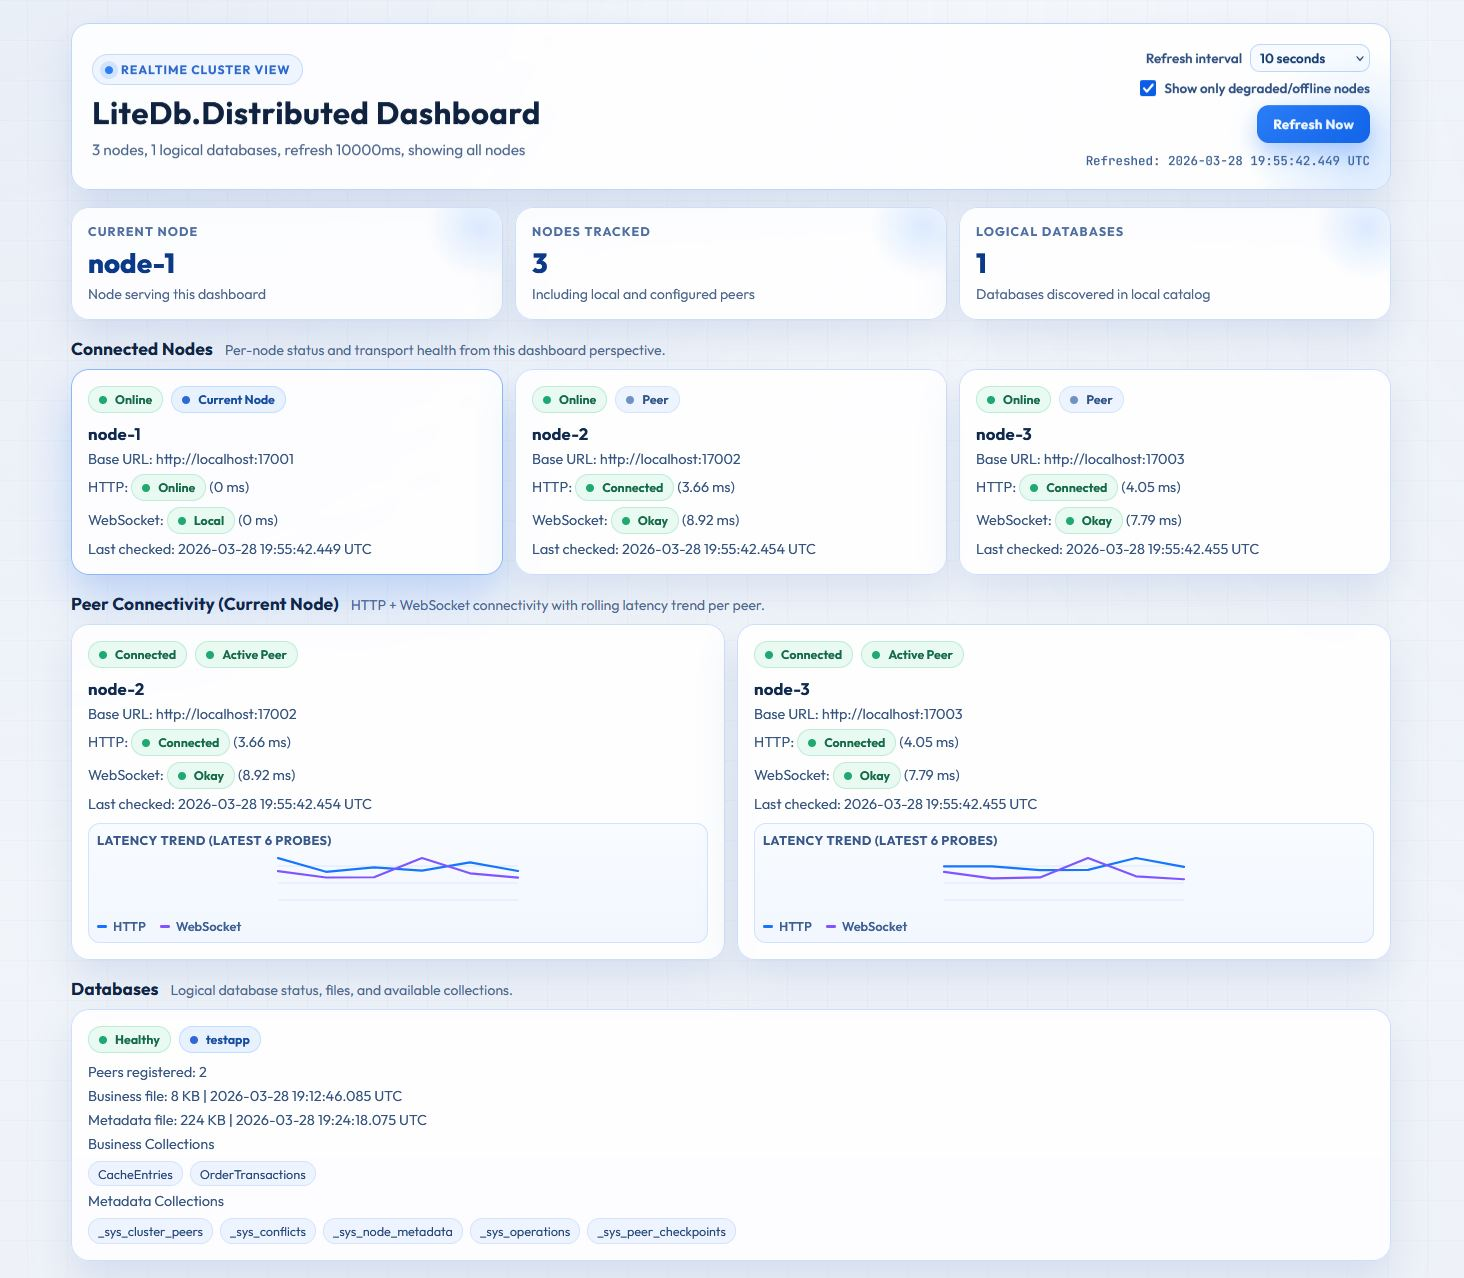
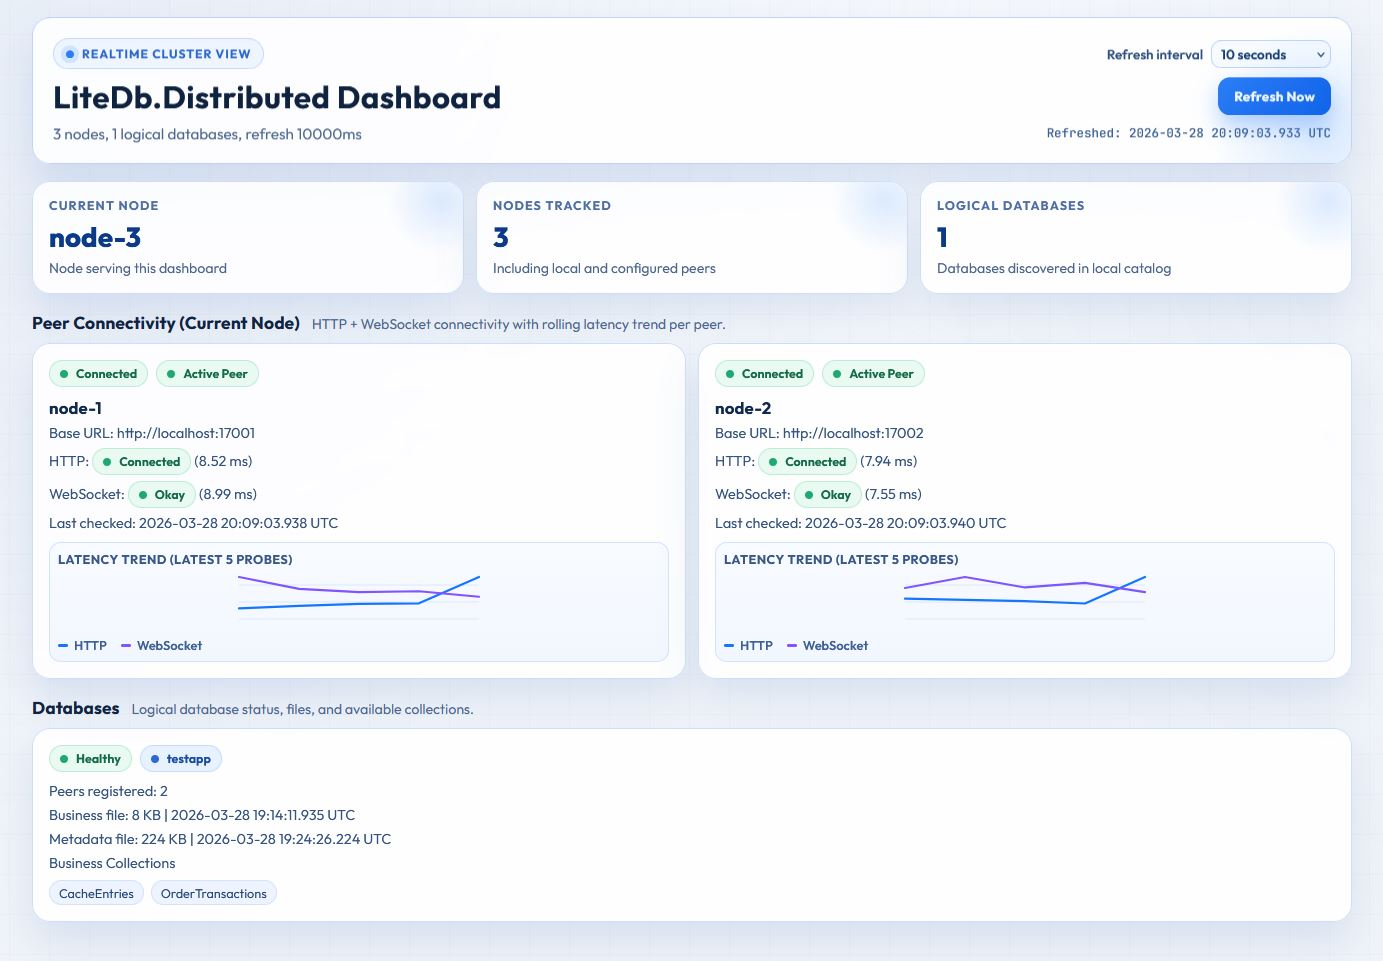
ui revamp

Changed region(s): [[0.0311, 0.0312, 0.9638, 0.999], [0.9328, 0.3746, 0.9638, 0.4058], [0.4975, 0.6868, 0.5286, 0.718]]

diff --git a/LiteDb.Distributed.Server/wwwroot/index.html b/LiteDb.Distributed.Server/wwwroot/index.html
@@ -172,25 +172,6 @@
       min-width: 120px;
     }
 
-    .toggle {
-      display: inline-flex;
-      align-items: center;
-      gap: 8px;
-      color: #2f4f80;
-      font-size: 0.84rem;
-      font-weight: 600;
-      user-select: none;
-      cursor: pointer;
-    }
-
-    .toggle input {
-      width: 16px;
-      height: 16px;
-      margin: 0;
-      accent-color: var(--brand-strong);
-      cursor: pointer;
-    }
-
     .btn {
       appearance: none;
       border: none;
@@ -572,10 +553,6 @@
               <option value="30000">30 seconds</option>
             </select>
           </label>
-          <label class="toggle" for="filterIssuesToggle">
-            <input id="filterIssuesToggle" type="checkbox" />
-            Show only degraded/offline nodes
-          </label>
         </div>
         <button id="refreshBtn" class="btn" type="button">Refresh Now</button>
         <p id="metaLine" class="meta">No data yet.</p>
@@ -603,14 +580,6 @@
 
     <section class="section">
       <div class="section-head">
-        <h2>Connected Nodes</h2>
-        <p>Per-node status and transport health from this dashboard perspective.</p>
-      </div>
-      <div id="nodesGrid" class="grid"></div>
-    </section>
-
-    <section class="section">
-      <div class="section-head">
         <h2>Peer Connectivity (Current Node)</h2>
         <p>HTTP + WebSocket connectivity with rolling latency trend per peer.</p>
       </div>
@@ -627,7 +596,6 @@
   </main>
 
   <script>
-    const nodesGrid = document.getElementById("nodesGrid");
     const peerConnectivityGrid = document.getElementById("peerConnectivityGrid");
     const databasesGrid = document.getElementById("databasesGrid");
     const summary = document.getElementById("summary");
@@ -635,15 +603,12 @@
     const errorLine = document.getElementById("errorLine");
     const refreshBtn = document.getElementById("refreshBtn");
     const refreshIntervalSelect = document.getElementById("refreshIntervalSelect");
-    const filterIssuesToggle = document.getElementById("filterIssuesToggle");
     const kpiCurrentNode = document.getElementById("kpiCurrentNode");
     const kpiNodeCount = document.getElementById("kpiNodeCount");
     const kpiDbCount = document.getElementById("kpiDbCount");
 
     const maxPeerLatencySamples = 32;
     const peerLatencyHistory = new Map();
-    let latestDashboardData = null;
-    let showOnlyIssueNodes = false;
     let refreshTimer = null;
 
     async function refreshDashboard() {
@@ -658,7 +623,6 @@
         }
 
         const data = await response.json();
-        latestDashboardData = data;
         capturePeerLatencySamples(data.PeerConnections || []);
         renderDashboard(data);
       } catch (error) {
@@ -675,55 +639,15 @@
       const peerConnections = data.PeerConnections || [];
       const timestamp = toUtcText(data.TimestampUtc);
       const intervalMs = readRefreshIntervalMs();
-      const filterText = showOnlyIssueNodes ? "issue-only node filter enabled" : "showing all nodes";
-
-      summary.textContent = `${nodes.length} nodes, ${databases.length} logical databases, refresh ${intervalMs}ms, ${filterText}`;
+      summary.textContent = `${nodes.length} nodes, ${databases.length} logical databases, refresh ${intervalMs}ms`;
       metaLine.textContent = `Refreshed: ${timestamp}`;
 
       kpiCurrentNode.textContent = data.NodeId || "-";
       kpiNodeCount.textContent = String(nodes.length);
       kpiDbCount.textContent = String(databases.length);
 
-      renderNodes(nodes, data.NodeId);
       renderPeerConnections(peerConnections);
       renderDatabases(databases);
-    }
-
-    function renderNodes(nodes, currentNodeId) {
-      nodesGrid.innerHTML = "";
-      const visibleNodes = showOnlyIssueNodes ? nodes.filter(node => isIssueNode(node)) : nodes;
-
-      if (visibleNodes.length === 0) {
-        const note = showOnlyIssueNodes ? "No degraded or offline nodes right now." : "No nodes discovered yet.";
-        nodesGrid.innerHTML = `<article class="panel reveal"><p class="note">${escapeHtml(note)}</p></article>`;
-        return;
-      }
-
-      for (const node of visibleNodes) {
-        const statusText = node.Status || (node.IsOnline ? "Online" : "Offline");
-        const checked = toUtcText(node.LastCheckedUtc);
-        const currentBadge = node.NodeId === currentNodeId ? `<span class="pill info">Current Node</span>` : `<span class="pill neutral">Peer</span>`;
-        const httpStatus = node.HttpStatus || (node.IsOnline ? "Connected" : "Offline");
-        const wsStatus = node.WebSocketStatus || "Unknown";
-        const currentClass = node.NodeId === currentNodeId ? " current-node" : "";
-        const error = node.Error ? `<div class="error">${escapeHtml(node.Error)}</div>` : "";
-        const httpLatency = formatLatency(node.HttpProbeDurationMs);
-        const wsLatency = formatLatency(node.WebSocketProbeDurationMs);
-
-        nodesGrid.insertAdjacentHTML("beforeend", `
-          <article class="panel node-card reveal${currentClass}">
-            <div class="row">
-              <span class="pill ${statusClass(statusText)}">${escapeHtml(statusText)}</span>
-              ${currentBadge}
-            </div>
-            <h3 class="title">${escapeHtml(node.NodeId)}</h3>
-            <p class="kv">Base URL: ${escapeHtml(node.BaseUrl || "(not set)")}</p>
-            <p class="kv">HTTP: <span class="pill ${statusClass(httpStatus)}">${escapeHtml(httpStatus)}</span> (${httpLatency})</p>
-            <p class="kv">WebSocket: <span class="pill ${statusClass(wsStatus)}">${escapeHtml(wsStatus)}</span> (${wsLatency})</p>
-            <p class="kv">Last checked: ${escapeHtml(checked)}</p>
-            ${error}
-          </article>`);
-      }
     }
 
     function renderPeerConnections(peers) {
@@ -772,7 +696,6 @@
         const status = db.Status || "Unknown";
         const error = db.Error ? `<div class="error">${escapeHtml(db.Error)}</div>` : "";
         const businessCollections = renderChips(db.BusinessCollections, "No business collections yet.");
-        const metadataCollections = renderChips(db.MetadataCollections, "No metadata collections yet.");
 
         databasesGrid.insertAdjacentHTML("beforeend", `
           <article class="panel reveal">
@@ -785,8 +708,6 @@
             <p class="kv">Metadata file: ${formatFile(db.MetadataFile)}</p>
             <p class="kv">Business Collections</p>
             ${businessCollections}
-            <p class="kv">Metadata Collections</p>
-            ${metadataCollections}
             ${error}
           </article>`);
       }
@@ -944,19 +865,6 @@
       return Number.isFinite(number) && number >= 0 ? number : null;
     }
 
-    function isIssueNode(node) {
-      if (!node) {
-        return false;
-      }
-
-      return !isHealthyStatus(node.Status) || !isHealthyStatus(node.HttpStatus) || !isHealthyStatus(node.WebSocketStatus) || !!node.Error;
-    }
-
-    function isHealthyStatus(status) {
-      const normalized = String(status || "").toLowerCase();
-      return normalized === "online" || normalized === "connected" || normalized === "healthy" || normalized === "okay" || normalized === "active peer" || normalized === "local";
-    }
-
     function toUtcText(value) {
       const d = value ? new Date(value) : null;
       if (!d || Number.isNaN(d.getTime())) {
@@ -999,12 +907,6 @@
     refreshBtn.addEventListener("click", refreshDashboard);
     refreshIntervalSelect.addEventListener("change", () => {
       scheduleAutoRefresh(readRefreshIntervalMs());
-    });
-    filterIssuesToggle.addEventListener("change", () => {
-      showOnlyIssueNodes = filterIssuesToggle.checked;
-      if (latestDashboardData) {
-        renderDashboard(latestDashboardData);
-      }
     });
 
     scheduleAutoRefresh(readRefreshIntervalMs());
